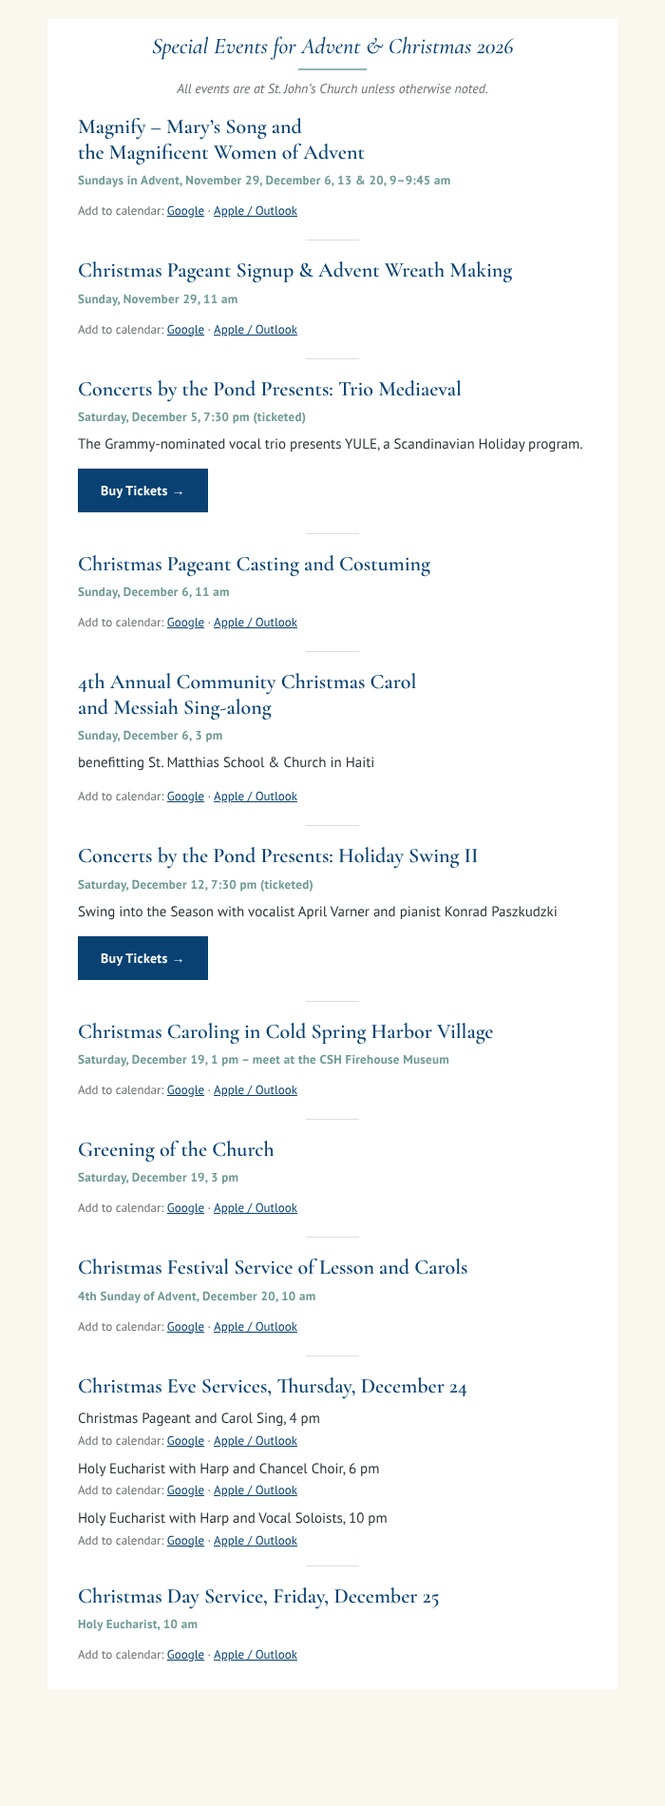
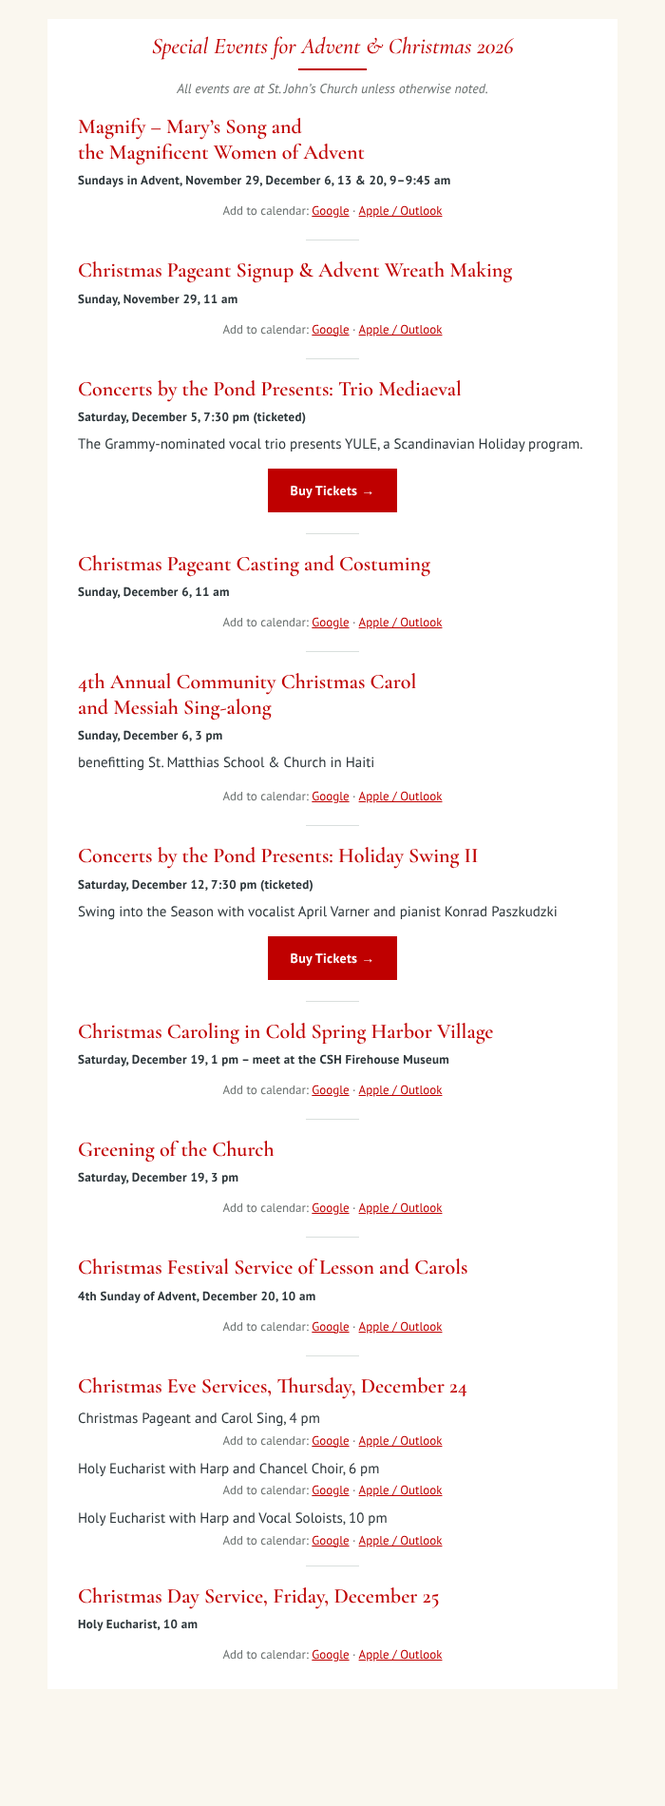
red update

diff --git a/advent/advent-block-for-mailchimp.html b/advent/advent-block-for-mailchimp.html
@@ -1,25 +1,25 @@
 <!-- Seasonal calendar block, events on/after 2026-11-24. Paste into the Curator's "Seasonal calendar" box. -->
 <table role="presentation" width="100%" cellpadding="0" cellspacing="0" border="0">
-<tr><td style="padding:16px 32px 0;text-align:center;"><div style="font-family:'Cormorant Garamond',Georgia,'Times New Roman',serif;font-style:italic;font-weight:500;font-size:24px;color:#084172;line-height:1.1;">Special Events for Advent &amp; Christmas 2026</div><table role="presentation" align="center" cellpadding="0" cellspacing="0" border="0" style="margin:10px auto 0;"><tr><td width="72" style="width:72px;height:2px;background:#8FB5B0;font-size:0;line-height:0;">&nbsp;</td></tr></table><div style="font-family:'PT Sans',Helvetica,Arial,sans-serif;font-style:italic;font-size:14px;color:#6B7170;margin-top:10px;">All events are at St. John’s Church unless otherwise noted.</div></td></tr>
-<tr><td style="padding:18px 32px 0;"><div style="font-family:'Cormorant Garamond',Georgia,'Times New Roman',serif;font-weight:600;font-size:22px;line-height:1.2;color:#084172;">Magnify – Mary’s Song&nbsp;and<br>the Magnificent Women of&nbsp;Advent</div><div style="font-family:'PT Sans',Helvetica,Arial,sans-serif;font-weight:700;font-size:13px;letter-spacing:0.3px;color:#6F9994;margin-top:8px;">Sundays in Advent, November 29, December 6, 13 &amp; 20, 9–9:45&nbsp;am</div><div style="margin:14px 0 4px;"><span style="font-family:'PT Sans',Helvetica,Arial,sans-serif;font-size:13px;color:#6B7170;">Add to calendar: </span><a href="https://calendar.google.com/calendar/render?action=TEMPLATE&amp;text=Magnify%20%E2%80%93%20Mary%E2%80%99s%20Song%20and%20the%20Magnificent%20Women%20of%20Advent&amp;dates=20261129T090000/20261129T094500&amp;ctz=America%2FNew_York&amp;location=St.%20John%E2%80%99s%20Church%2C%201670%20Route%2025A%2C%20Cold%20Spring%20Harbor%2C%20NY%2011724&amp;details=St.%20John%E2%80%99s%20Episcopal%20Church%2C%20Cold%20Spring%20Harbor&amp;recur=RRULE%3AFREQ%3DWEEKLY%3BCOUNT%3D4" style="color:#084172;text-decoration:underline;font-family:'PT Sans',Helvetica,Arial,sans-serif;font-size:13px;">Google</a><span style="font-family:'PT Sans',Helvetica,Arial,sans-serif;font-size:13px;color:#6B7170;"> &middot; </span><a href="https://www.stjcsh.org/calendar/magnify-2026.ics" style="color:#084172;text-decoration:underline;font-family:'PT Sans',Helvetica,Arial,sans-serif;font-size:13px;">Apple / Outlook</a></div></td></tr>
+<tr><td style="padding:16px 32px 0;text-align:center;"><div style="font-family:'Cormorant Garamond',Georgia,'Times New Roman',serif;font-style:italic;font-weight:500;font-size:24px;color:#BF0000;line-height:1.1;">Special Events for Advent &amp; Christmas 2026</div><table role="presentation" align="center" cellpadding="0" cellspacing="0" border="0" style="margin:10px auto 0;"><tr><td width="72" style="width:72px;height:2px;background:#BF0000;font-size:0;line-height:0;">&nbsp;</td></tr></table><div style="font-family:'PT Sans',Helvetica,Arial,sans-serif;font-style:italic;font-size:14px;color:#6B7170;margin-top:10px;">All events are at St. John’s Church unless otherwise noted.</div></td></tr>
+<tr><td style="padding:18px 32px 0;"><div style="font-family:'Cormorant Garamond',Georgia,'Times New Roman',serif;font-weight:600;font-size:22px;line-height:1.2;color:#BF0000;">Magnify – Mary’s Song&nbsp;and<br>the Magnificent Women of&nbsp;Advent</div><div style="font-family:'PT Sans',Helvetica,Arial,sans-serif;font-weight:700;font-size:13px;letter-spacing:0.3px;color:#2C3539;margin-top:8px;">Sundays in Advent, November 29, December 6, 13 &amp; 20, 9–9:45&nbsp;am</div><div style="margin:14px 0 4px;text-align:center;"><span style="font-family:'PT Sans',Helvetica,Arial,sans-serif;font-size:13px;color:#6B7170;">Add to calendar: </span><a href="https://calendar.google.com/calendar/render?action=TEMPLATE&amp;text=Magnify%20%E2%80%93%20Mary%E2%80%99s%20Song%20and%20the%20Magnificent%20Women%20of%20Advent&amp;dates=20261129T090000/20261129T094500&amp;ctz=America%2FNew_York&amp;location=St.%20John%E2%80%99s%20Church%2C%201670%20Route%2025A%2C%20Cold%20Spring%20Harbor%2C%20NY%2011724&amp;details=St.%20John%E2%80%99s%20Episcopal%20Church%2C%20Cold%20Spring%20Harbor&amp;recur=RRULE%3AFREQ%3DWEEKLY%3BCOUNT%3D4" style="color:#BF0000;text-decoration:underline;font-family:'PT Sans',Helvetica,Arial,sans-serif;font-size:13px;">Google</a><span style="font-family:'PT Sans',Helvetica,Arial,sans-serif;font-size:13px;color:#6B7170;"> &middot; </span><a href="https://www.stjcsh.org/calendar/magnify-2026.ics" style="color:#BF0000;text-decoration:underline;font-family:'PT Sans',Helvetica,Arial,sans-serif;font-size:13px;">Apple / Outlook</a></div></td></tr>
 <tr><td style="padding:18px 32px 0;text-align:center;"><table role="presentation" align="center" cellpadding="0" cellspacing="0" border="0" style="margin:0 auto;"><tr><td width="56" style="width:56px;height:1px;background:#D9DFDD;font-size:0;line-height:0;">&nbsp;</td></tr></table></td></tr>
-<tr><td style="padding:18px 32px 0;"><div style="font-family:'Cormorant Garamond',Georgia,'Times New Roman',serif;font-weight:600;font-size:22px;line-height:1.2;color:#084172;">Christmas Pageant Signup &amp; Advent Wreath&nbsp;Making</div><div style="font-family:'PT Sans',Helvetica,Arial,sans-serif;font-weight:700;font-size:13px;letter-spacing:0.3px;color:#6F9994;margin-top:8px;">Sunday, November 29, 11&nbsp;am</div><div style="margin:14px 0 4px;"><span style="font-family:'PT Sans',Helvetica,Arial,sans-serif;font-size:13px;color:#6B7170;">Add to calendar: </span><a href="https://calendar.google.com/calendar/render?action=TEMPLATE&amp;text=Christmas%20Pageant%20Signup%20%26%20Advent%20Wreath%20Making&amp;dates=20261129T110000/20261129T120000&amp;ctz=America%2FNew_York&amp;location=St.%20John%E2%80%99s%20Church%2C%201670%20Route%2025A%2C%20Cold%20Spring%20Harbor%2C%20NY%2011724&amp;details=St.%20John%E2%80%99s%20Episcopal%20Church%2C%20Cold%20Spring%20Harbor" style="color:#084172;text-decoration:underline;font-family:'PT Sans',Helvetica,Arial,sans-serif;font-size:13px;">Google</a><span style="font-family:'PT Sans',Helvetica,Arial,sans-serif;font-size:13px;color:#6B7170;"> &middot; </span><a href="https://www.stjcsh.org/calendar/pageant-signup-wreath-making.ics" style="color:#084172;text-decoration:underline;font-family:'PT Sans',Helvetica,Arial,sans-serif;font-size:13px;">Apple / Outlook</a></div></td></tr>
+<tr><td style="padding:18px 32px 0;"><div style="font-family:'Cormorant Garamond',Georgia,'Times New Roman',serif;font-weight:600;font-size:22px;line-height:1.2;color:#BF0000;">Christmas Pageant Signup &amp; Advent Wreath&nbsp;Making</div><div style="font-family:'PT Sans',Helvetica,Arial,sans-serif;font-weight:700;font-size:13px;letter-spacing:0.3px;color:#2C3539;margin-top:8px;">Sunday, November 29, 11&nbsp;am</div><div style="margin:14px 0 4px;text-align:center;"><span style="font-family:'PT Sans',Helvetica,Arial,sans-serif;font-size:13px;color:#6B7170;">Add to calendar: </span><a href="https://calendar.google.com/calendar/render?action=TEMPLATE&amp;text=Christmas%20Pageant%20Signup%20%26%20Advent%20Wreath%20Making&amp;dates=20261129T110000/20261129T120000&amp;ctz=America%2FNew_York&amp;location=St.%20John%E2%80%99s%20Church%2C%201670%20Route%2025A%2C%20Cold%20Spring%20Harbor%2C%20NY%2011724&amp;details=St.%20John%E2%80%99s%20Episcopal%20Church%2C%20Cold%20Spring%20Harbor" style="color:#BF0000;text-decoration:underline;font-family:'PT Sans',Helvetica,Arial,sans-serif;font-size:13px;">Google</a><span style="font-family:'PT Sans',Helvetica,Arial,sans-serif;font-size:13px;color:#6B7170;"> &middot; </span><a href="https://www.stjcsh.org/calendar/pageant-signup-wreath-making.ics" style="color:#BF0000;text-decoration:underline;font-family:'PT Sans',Helvetica,Arial,sans-serif;font-size:13px;">Apple / Outlook</a></div></td></tr>
 <tr><td style="padding:18px 32px 0;text-align:center;"><table role="presentation" align="center" cellpadding="0" cellspacing="0" border="0" style="margin:0 auto;"><tr><td width="56" style="width:56px;height:1px;background:#D9DFDD;font-size:0;line-height:0;">&nbsp;</td></tr></table></td></tr>
-<tr><td style="padding:18px 32px 0;"><div style="font-family:'Cormorant Garamond',Georgia,'Times New Roman',serif;font-weight:600;font-size:22px;line-height:1.2;color:#084172;">Concerts by the Pond Presents: Trio&nbsp;Mediaeval</div><div style="font-family:'PT Sans',Helvetica,Arial,sans-serif;font-weight:700;font-size:13px;letter-spacing:0.3px;color:#6F9994;margin-top:8px;">Saturday, December 5, 7:30 pm&nbsp;(ticketed)</div><div style="font-family:'PT Sans',Helvetica,Arial,sans-serif;font-size:15px;line-height:1.6;color:#2C3539;margin-top:8px;">The <span style="white-space:nowrap;">Grammy-nominated</span> vocal trio presents YULE, a Scandinavian Holiday&nbsp;program.</div><div style="margin:14px 0 4px;"><a href="https://www.tix.com/ticket-sales/CBTP/7340/event/1468828" style="display:inline-block;background:#084172;color:#FFFFFF;font-family:'PT Sans',Helvetica,Arial,sans-serif;font-weight:700;font-size:14px;letter-spacing:0.3px;text-decoration:none;padding:12px 22px;border:2px solid #084172;">Buy Tickets &rarr;</a></div></td></tr>
+<tr><td style="padding:18px 32px 0;"><div style="font-family:'Cormorant Garamond',Georgia,'Times New Roman',serif;font-weight:600;font-size:22px;line-height:1.2;color:#BF0000;">Concerts by the Pond Presents: Trio&nbsp;Mediaeval</div><div style="font-family:'PT Sans',Helvetica,Arial,sans-serif;font-weight:700;font-size:13px;letter-spacing:0.3px;color:#2C3539;margin-top:8px;">Saturday, December 5, 7:30 pm&nbsp;(ticketed)</div><div style="font-family:'PT Sans',Helvetica,Arial,sans-serif;font-size:15px;line-height:1.6;color:#2C3539;margin-top:8px;">The <span style="white-space:nowrap;">Grammy-nominated</span> vocal trio presents YULE, a Scandinavian Holiday&nbsp;program.</div><div style="margin:14px 0 4px;text-align:center;"><a href="https://www.tix.com/ticket-sales/CBTP/7340/event/1468828" style="display:inline-block;background:#BF0000;color:#FFFFFF;font-family:'PT Sans',Helvetica,Arial,sans-serif;font-weight:700;font-size:14px;letter-spacing:0.3px;text-decoration:none;padding:12px 22px;border:2px solid #BF0000;">Buy Tickets &rarr;</a></div></td></tr>
 <tr><td style="padding:18px 32px 0;text-align:center;"><table role="presentation" align="center" cellpadding="0" cellspacing="0" border="0" style="margin:0 auto;"><tr><td width="56" style="width:56px;height:1px;background:#D9DFDD;font-size:0;line-height:0;">&nbsp;</td></tr></table></td></tr>
-<tr><td style="padding:18px 32px 0;"><div style="font-family:'Cormorant Garamond',Georgia,'Times New Roman',serif;font-weight:600;font-size:22px;line-height:1.2;color:#084172;">Christmas Pageant Casting and&nbsp;Costuming</div><div style="font-family:'PT Sans',Helvetica,Arial,sans-serif;font-weight:700;font-size:13px;letter-spacing:0.3px;color:#6F9994;margin-top:8px;">Sunday, December 6, 11&nbsp;am</div><div style="margin:14px 0 4px;"><span style="font-family:'PT Sans',Helvetica,Arial,sans-serif;font-size:13px;color:#6B7170;">Add to calendar: </span><a href="https://calendar.google.com/calendar/render?action=TEMPLATE&amp;text=Christmas%20Pageant%20Casting%20and%20Costuming&amp;dates=20261206T110000/20261206T120000&amp;ctz=America%2FNew_York&amp;location=St.%20John%E2%80%99s%20Church%2C%201670%20Route%2025A%2C%20Cold%20Spring%20Harbor%2C%20NY%2011724&amp;details=St.%20John%E2%80%99s%20Episcopal%20Church%2C%20Cold%20Spring%20Harbor" style="color:#084172;text-decoration:underline;font-family:'PT Sans',Helvetica,Arial,sans-serif;font-size:13px;">Google</a><span style="font-family:'PT Sans',Helvetica,Arial,sans-serif;font-size:13px;color:#6B7170;"> &middot; </span><a href="https://www.stjcsh.org/calendar/pageant-casting-costuming.ics" style="color:#084172;text-decoration:underline;font-family:'PT Sans',Helvetica,Arial,sans-serif;font-size:13px;">Apple / Outlook</a></div></td></tr>
+<tr><td style="padding:18px 32px 0;"><div style="font-family:'Cormorant Garamond',Georgia,'Times New Roman',serif;font-weight:600;font-size:22px;line-height:1.2;color:#BF0000;">Christmas Pageant Casting and&nbsp;Costuming</div><div style="font-family:'PT Sans',Helvetica,Arial,sans-serif;font-weight:700;font-size:13px;letter-spacing:0.3px;color:#2C3539;margin-top:8px;">Sunday, December 6, 11&nbsp;am</div><div style="margin:14px 0 4px;text-align:center;"><span style="font-family:'PT Sans',Helvetica,Arial,sans-serif;font-size:13px;color:#6B7170;">Add to calendar: </span><a href="https://calendar.google.com/calendar/render?action=TEMPLATE&amp;text=Christmas%20Pageant%20Casting%20and%20Costuming&amp;dates=20261206T110000/20261206T120000&amp;ctz=America%2FNew_York&amp;location=St.%20John%E2%80%99s%20Church%2C%201670%20Route%2025A%2C%20Cold%20Spring%20Harbor%2C%20NY%2011724&amp;details=St.%20John%E2%80%99s%20Episcopal%20Church%2C%20Cold%20Spring%20Harbor" style="color:#BF0000;text-decoration:underline;font-family:'PT Sans',Helvetica,Arial,sans-serif;font-size:13px;">Google</a><span style="font-family:'PT Sans',Helvetica,Arial,sans-serif;font-size:13px;color:#6B7170;"> &middot; </span><a href="https://www.stjcsh.org/calendar/pageant-casting-costuming.ics" style="color:#BF0000;text-decoration:underline;font-family:'PT Sans',Helvetica,Arial,sans-serif;font-size:13px;">Apple / Outlook</a></div></td></tr>
 <tr><td style="padding:18px 32px 0;text-align:center;"><table role="presentation" align="center" cellpadding="0" cellspacing="0" border="0" style="margin:0 auto;"><tr><td width="56" style="width:56px;height:1px;background:#D9DFDD;font-size:0;line-height:0;">&nbsp;</td></tr></table></td></tr>
-<tr><td style="padding:18px 32px 0;"><div style="font-family:'Cormorant Garamond',Georgia,'Times New Roman',serif;font-weight:600;font-size:22px;line-height:1.2;color:#084172;">4th Annual Community Christmas&nbsp;Carol<br>and Messiah <span&nbsp;style="white-space:nowrap;">Sing-along</span></div><div style="font-family:'PT Sans',Helvetica,Arial,sans-serif;font-weight:700;font-size:13px;letter-spacing:0.3px;color:#6F9994;margin-top:8px;">Sunday, December 6, 3&nbsp;pm</div><div style="font-family:'PT Sans',Helvetica,Arial,sans-serif;font-size:15px;line-height:1.6;color:#2C3539;margin-top:8px;">benefitting St. Matthias School &amp; Church in&nbsp;Haiti</div><div style="margin:14px 0 4px;"><span style="font-family:'PT Sans',Helvetica,Arial,sans-serif;font-size:13px;color:#6B7170;">Add to calendar: </span><a href="https://calendar.google.com/calendar/render?action=TEMPLATE&amp;text=4th%20Annual%20Community%20Christmas%20Carol%20and%20Messiah%20Sing-along&amp;dates=20261206T150000/20261206T160000&amp;ctz=America%2FNew_York&amp;location=St.%20John%E2%80%99s%20Church%2C%201670%20Route%2025A%2C%20Cold%20Spring%20Harbor%2C%20NY%2011724&amp;details=St.%20John%E2%80%99s%20Episcopal%20Church%2C%20Cold%20Spring%20Harbor" style="color:#084172;text-decoration:underline;font-family:'PT Sans',Helvetica,Arial,sans-serif;font-size:13px;">Google</a><span style="font-family:'PT Sans',Helvetica,Arial,sans-serif;font-size:13px;color:#6B7170;"> &middot; </span><a href="https://www.stjcsh.org/calendar/carol-messiah-singalong.ics" style="color:#084172;text-decoration:underline;font-family:'PT Sans',Helvetica,Arial,sans-serif;font-size:13px;">Apple / Outlook</a></div></td></tr>
+<tr><td style="padding:18px 32px 0;"><div style="font-family:'Cormorant Garamond',Georgia,'Times New Roman',serif;font-weight:600;font-size:22px;line-height:1.2;color:#BF0000;">4th Annual Community Christmas&nbsp;Carol<br>and Messiah <span&nbsp;style="white-space:nowrap;">Sing-along</span></div><div style="font-family:'PT Sans',Helvetica,Arial,sans-serif;font-weight:700;font-size:13px;letter-spacing:0.3px;color:#2C3539;margin-top:8px;">Sunday, December 6, 3&nbsp;pm</div><div style="font-family:'PT Sans',Helvetica,Arial,sans-serif;font-size:15px;line-height:1.6;color:#2C3539;margin-top:8px;">benefitting St. Matthias School &amp; Church in&nbsp;Haiti</div><div style="margin:14px 0 4px;text-align:center;"><span style="font-family:'PT Sans',Helvetica,Arial,sans-serif;font-size:13px;color:#6B7170;">Add to calendar: </span><a href="https://calendar.google.com/calendar/render?action=TEMPLATE&amp;text=4th%20Annual%20Community%20Christmas%20Carol%20and%20Messiah%20Sing-along&amp;dates=20261206T150000/20261206T160000&amp;ctz=America%2FNew_York&amp;location=St.%20John%E2%80%99s%20Church%2C%201670%20Route%2025A%2C%20Cold%20Spring%20Harbor%2C%20NY%2011724&amp;details=St.%20John%E2%80%99s%20Episcopal%20Church%2C%20Cold%20Spring%20Harbor" style="color:#BF0000;text-decoration:underline;font-family:'PT Sans',Helvetica,Arial,sans-serif;font-size:13px;">Google</a><span style="font-family:'PT Sans',Helvetica,Arial,sans-serif;font-size:13px;color:#6B7170;"> &middot; </span><a href="https://www.stjcsh.org/calendar/carol-messiah-singalong.ics" style="color:#BF0000;text-decoration:underline;font-family:'PT Sans',Helvetica,Arial,sans-serif;font-size:13px;">Apple / Outlook</a></div></td></tr>
 <tr><td style="padding:18px 32px 0;text-align:center;"><table role="presentation" align="center" cellpadding="0" cellspacing="0" border="0" style="margin:0 auto;"><tr><td width="56" style="width:56px;height:1px;background:#D9DFDD;font-size:0;line-height:0;">&nbsp;</td></tr></table></td></tr>
-<tr><td style="padding:18px 32px 0;"><div style="font-family:'Cormorant Garamond',Georgia,'Times New Roman',serif;font-weight:600;font-size:22px;line-height:1.2;color:#084172;">Concerts by the Pond Presents: Holiday Swing&nbsp;II</div><div style="font-family:'PT Sans',Helvetica,Arial,sans-serif;font-weight:700;font-size:13px;letter-spacing:0.3px;color:#6F9994;margin-top:8px;">Saturday, December 12, 7:30 pm&nbsp;(ticketed)</div><div style="font-family:'PT Sans',Helvetica,Arial,sans-serif;font-size:15px;line-height:1.6;color:#2C3539;margin-top:8px;">Swing into the Season with vocalist April Varner and pianist Konrad&nbsp;Paszkudzki</div><div style="margin:14px 0 4px;"><a href="https://www.tix.com/ticket-sales/CBTP/7340/event/1468829" style="display:inline-block;background:#084172;color:#FFFFFF;font-family:'PT Sans',Helvetica,Arial,sans-serif;font-weight:700;font-size:14px;letter-spacing:0.3px;text-decoration:none;padding:12px 22px;border:2px solid #084172;">Buy Tickets &rarr;</a></div></td></tr>
+<tr><td style="padding:18px 32px 0;"><div style="font-family:'Cormorant Garamond',Georgia,'Times New Roman',serif;font-weight:600;font-size:22px;line-height:1.2;color:#BF0000;">Concerts by the Pond Presents: Holiday Swing&nbsp;II</div><div style="font-family:'PT Sans',Helvetica,Arial,sans-serif;font-weight:700;font-size:13px;letter-spacing:0.3px;color:#2C3539;margin-top:8px;">Saturday, December 12, 7:30 pm&nbsp;(ticketed)</div><div style="font-family:'PT Sans',Helvetica,Arial,sans-serif;font-size:15px;line-height:1.6;color:#2C3539;margin-top:8px;">Swing into the Season with vocalist April Varner and pianist Konrad&nbsp;Paszkudzki</div><div style="margin:14px 0 4px;text-align:center;"><a href="https://www.tix.com/ticket-sales/CBTP/7340/event/1468829" style="display:inline-block;background:#BF0000;color:#FFFFFF;font-family:'PT Sans',Helvetica,Arial,sans-serif;font-weight:700;font-size:14px;letter-spacing:0.3px;text-decoration:none;padding:12px 22px;border:2px solid #BF0000;">Buy Tickets &rarr;</a></div></td></tr>
 <tr><td style="padding:18px 32px 0;text-align:center;"><table role="presentation" align="center" cellpadding="0" cellspacing="0" border="0" style="margin:0 auto;"><tr><td width="56" style="width:56px;height:1px;background:#D9DFDD;font-size:0;line-height:0;">&nbsp;</td></tr></table></td></tr>
-<tr><td style="padding:18px 32px 0;"><div style="font-family:'Cormorant Garamond',Georgia,'Times New Roman',serif;font-weight:600;font-size:22px;line-height:1.2;color:#084172;">Christmas Caroling in Cold Spring Harbor&nbsp;Village</div><div style="font-family:'PT Sans',Helvetica,Arial,sans-serif;font-weight:700;font-size:13px;letter-spacing:0.3px;color:#6F9994;margin-top:8px;">Saturday, December 19, 1 pm – meet at the CSH Firehouse&nbsp;Museum</div><div style="margin:14px 0 4px;"><span style="font-family:'PT Sans',Helvetica,Arial,sans-serif;font-size:13px;color:#6B7170;">Add to calendar: </span><a href="https://calendar.google.com/calendar/render?action=TEMPLATE&amp;text=Christmas%20Caroling%20in%20Cold%20Spring%20Harbor%20Village&amp;dates=20261219T130000/20261219T140000&amp;ctz=America%2FNew_York&amp;location=Cold%20Spring%20Harbor%20Firehouse%20Museum%2C%20Cold%20Spring%20Harbor%2C%20NY&amp;details=St.%20John%E2%80%99s%20Episcopal%20Church%2C%20Cold%20Spring%20Harbor" style="color:#084172;text-decoration:underline;font-family:'PT Sans',Helvetica,Arial,sans-serif;font-size:13px;">Google</a><span style="font-family:'PT Sans',Helvetica,Arial,sans-serif;font-size:13px;color:#6B7170;"> &middot; </span><a href="https://www.stjcsh.org/calendar/village-caroling.ics" style="color:#084172;text-decoration:underline;font-family:'PT Sans',Helvetica,Arial,sans-serif;font-size:13px;">Apple / Outlook</a></div></td></tr>
+<tr><td style="padding:18px 32px 0;"><div style="font-family:'Cormorant Garamond',Georgia,'Times New Roman',serif;font-weight:600;font-size:22px;line-height:1.2;color:#BF0000;">Christmas Caroling in Cold Spring Harbor&nbsp;Village</div><div style="font-family:'PT Sans',Helvetica,Arial,sans-serif;font-weight:700;font-size:13px;letter-spacing:0.3px;color:#2C3539;margin-top:8px;">Saturday, December 19, 1 pm – meet at the CSH Firehouse&nbsp;Museum</div><div style="margin:14px 0 4px;text-align:center;"><span style="font-family:'PT Sans',Helvetica,Arial,sans-serif;font-size:13px;color:#6B7170;">Add to calendar: </span><a href="https://calendar.google.com/calendar/render?action=TEMPLATE&amp;text=Christmas%20Caroling%20in%20Cold%20Spring%20Harbor%20Village&amp;dates=20261219T130000/20261219T140000&amp;ctz=America%2FNew_York&amp;location=Cold%20Spring%20Harbor%20Firehouse%20Museum%2C%20Cold%20Spring%20Harbor%2C%20NY&amp;details=St.%20John%E2%80%99s%20Episcopal%20Church%2C%20Cold%20Spring%20Harbor" style="color:#BF0000;text-decoration:underline;font-family:'PT Sans',Helvetica,Arial,sans-serif;font-size:13px;">Google</a><span style="font-family:'PT Sans',Helvetica,Arial,sans-serif;font-size:13px;color:#6B7170;"> &middot; </span><a href="https://www.stjcsh.org/calendar/village-caroling.ics" style="color:#BF0000;text-decoration:underline;font-family:'PT Sans',Helvetica,Arial,sans-serif;font-size:13px;">Apple / Outlook</a></div></td></tr>
 <tr><td style="padding:18px 32px 0;text-align:center;"><table role="presentation" align="center" cellpadding="0" cellspacing="0" border="0" style="margin:0 auto;"><tr><td width="56" style="width:56px;height:1px;background:#D9DFDD;font-size:0;line-height:0;">&nbsp;</td></tr></table></td></tr>
-<tr><td style="padding:18px 32px 0;"><div style="font-family:'Cormorant Garamond',Georgia,'Times New Roman',serif;font-weight:600;font-size:22px;line-height:1.2;color:#084172;">Greening of the&nbsp;Church</div><div style="font-family:'PT Sans',Helvetica,Arial,sans-serif;font-weight:700;font-size:13px;letter-spacing:0.3px;color:#6F9994;margin-top:8px;">Saturday, December 19, 3&nbsp;pm</div><div style="margin:14px 0 4px;"><span style="font-family:'PT Sans',Helvetica,Arial,sans-serif;font-size:13px;color:#6B7170;">Add to calendar: </span><a href="https://calendar.google.com/calendar/render?action=TEMPLATE&amp;text=Greening%20of%20the%20Church&amp;dates=20261219T150000/20261219T160000&amp;ctz=America%2FNew_York&amp;location=St.%20John%E2%80%99s%20Church%2C%201670%20Route%2025A%2C%20Cold%20Spring%20Harbor%2C%20NY%2011724&amp;details=St.%20John%E2%80%99s%20Episcopal%20Church%2C%20Cold%20Spring%20Harbor" style="color:#084172;text-decoration:underline;font-family:'PT Sans',Helvetica,Arial,sans-serif;font-size:13px;">Google</a><span style="font-family:'PT Sans',Helvetica,Arial,sans-serif;font-size:13px;color:#6B7170;"> &middot; </span><a href="https://www.stjcsh.org/calendar/greening-of-the-church.ics" style="color:#084172;text-decoration:underline;font-family:'PT Sans',Helvetica,Arial,sans-serif;font-size:13px;">Apple / Outlook</a></div></td></tr>
+<tr><td style="padding:18px 32px 0;"><div style="font-family:'Cormorant Garamond',Georgia,'Times New Roman',serif;font-weight:600;font-size:22px;line-height:1.2;color:#BF0000;">Greening of the&nbsp;Church</div><div style="font-family:'PT Sans',Helvetica,Arial,sans-serif;font-weight:700;font-size:13px;letter-spacing:0.3px;color:#2C3539;margin-top:8px;">Saturday, December 19, 3&nbsp;pm</div><div style="margin:14px 0 4px;text-align:center;"><span style="font-family:'PT Sans',Helvetica,Arial,sans-serif;font-size:13px;color:#6B7170;">Add to calendar: </span><a href="https://calendar.google.com/calendar/render?action=TEMPLATE&amp;text=Greening%20of%20the%20Church&amp;dates=20261219T150000/20261219T160000&amp;ctz=America%2FNew_York&amp;location=St.%20John%E2%80%99s%20Church%2C%201670%20Route%2025A%2C%20Cold%20Spring%20Harbor%2C%20NY%2011724&amp;details=St.%20John%E2%80%99s%20Episcopal%20Church%2C%20Cold%20Spring%20Harbor" style="color:#BF0000;text-decoration:underline;font-family:'PT Sans',Helvetica,Arial,sans-serif;font-size:13px;">Google</a><span style="font-family:'PT Sans',Helvetica,Arial,sans-serif;font-size:13px;color:#6B7170;"> &middot; </span><a href="https://www.stjcsh.org/calendar/greening-of-the-church.ics" style="color:#BF0000;text-decoration:underline;font-family:'PT Sans',Helvetica,Arial,sans-serif;font-size:13px;">Apple / Outlook</a></div></td></tr>
 <tr><td style="padding:18px 32px 0;text-align:center;"><table role="presentation" align="center" cellpadding="0" cellspacing="0" border="0" style="margin:0 auto;"><tr><td width="56" style="width:56px;height:1px;background:#D9DFDD;font-size:0;line-height:0;">&nbsp;</td></tr></table></td></tr>
-<tr><td style="padding:18px 32px 0;"><div style="font-family:'Cormorant Garamond',Georgia,'Times New Roman',serif;font-weight:600;font-size:22px;line-height:1.2;color:#084172;">Christmas Festival Service of Lesson and&nbsp;Carols</div><div style="font-family:'PT Sans',Helvetica,Arial,sans-serif;font-weight:700;font-size:13px;letter-spacing:0.3px;color:#6F9994;margin-top:8px;">4th Sunday of Advent, December 20, 10&nbsp;am</div><div style="margin:14px 0 4px;"><span style="font-family:'PT Sans',Helvetica,Arial,sans-serif;font-size:13px;color:#6B7170;">Add to calendar: </span><a href="https://calendar.google.com/calendar/render?action=TEMPLATE&amp;text=Christmas%20Festival%20Service%20of%20Lesson%20and%20Carols&amp;dates=20261220T100000/20261220T110000&amp;ctz=America%2FNew_York&amp;location=St.%20John%E2%80%99s%20Church%2C%201670%20Route%2025A%2C%20Cold%20Spring%20Harbor%2C%20NY%2011724&amp;details=St.%20John%E2%80%99s%20Episcopal%20Church%2C%20Cold%20Spring%20Harbor" style="color:#084172;text-decoration:underline;font-family:'PT Sans',Helvetica,Arial,sans-serif;font-size:13px;">Google</a><span style="font-family:'PT Sans',Helvetica,Arial,sans-serif;font-size:13px;color:#6B7170;"> &middot; </span><a href="https://www.stjcsh.org/calendar/lessons-and-carols.ics" style="color:#084172;text-decoration:underline;font-family:'PT Sans',Helvetica,Arial,sans-serif;font-size:13px;">Apple / Outlook</a></div></td></tr>
+<tr><td style="padding:18px 32px 0;"><div style="font-family:'Cormorant Garamond',Georgia,'Times New Roman',serif;font-weight:600;font-size:22px;line-height:1.2;color:#BF0000;">Christmas Festival Service of Lesson and&nbsp;Carols</div><div style="font-family:'PT Sans',Helvetica,Arial,sans-serif;font-weight:700;font-size:13px;letter-spacing:0.3px;color:#2C3539;margin-top:8px;">4th Sunday of Advent, December 20, 10&nbsp;am</div><div style="margin:14px 0 4px;text-align:center;"><span style="font-family:'PT Sans',Helvetica,Arial,sans-serif;font-size:13px;color:#6B7170;">Add to calendar: </span><a href="https://calendar.google.com/calendar/render?action=TEMPLATE&amp;text=Christmas%20Festival%20Service%20of%20Lesson%20and%20Carols&amp;dates=20261220T100000/20261220T110000&amp;ctz=America%2FNew_York&amp;location=St.%20John%E2%80%99s%20Church%2C%201670%20Route%2025A%2C%20Cold%20Spring%20Harbor%2C%20NY%2011724&amp;details=St.%20John%E2%80%99s%20Episcopal%20Church%2C%20Cold%20Spring%20Harbor" style="color:#BF0000;text-decoration:underline;font-family:'PT Sans',Helvetica,Arial,sans-serif;font-size:13px;">Google</a><span style="font-family:'PT Sans',Helvetica,Arial,sans-serif;font-size:13px;color:#6B7170;"> &middot; </span><a href="https://www.stjcsh.org/calendar/lessons-and-carols.ics" style="color:#BF0000;text-decoration:underline;font-family:'PT Sans',Helvetica,Arial,sans-serif;font-size:13px;">Apple / Outlook</a></div></td></tr>
 <tr><td style="padding:18px 32px 0;text-align:center;"><table role="presentation" align="center" cellpadding="0" cellspacing="0" border="0" style="margin:0 auto;"><tr><td width="56" style="width:56px;height:1px;background:#D9DFDD;font-size:0;line-height:0;">&nbsp;</td></tr></table></td></tr>
-<tr><td style="padding:18px 32px 0;"><div style="font-family:'Cormorant Garamond',Georgia,'Times New Roman',serif;font-weight:600;font-size:22px;line-height:1.2;color:#084172;">Christmas Eve Services, Thursday, December&nbsp;24</div><div style="margin-top:10px;"><div style="font-family:'PT Sans',Helvetica,Arial,sans-serif;font-size:15px;line-height:1.5;color:#2C3539;">Christmas Pageant and Carol Sing, 4&nbsp;pm</div><div style="margin-top:2px;"><span style="font-family:'PT Sans',Helvetica,Arial,sans-serif;font-size:13px;color:#6B7170;">Add to calendar: </span><a href="https://calendar.google.com/calendar/render?action=TEMPLATE&amp;text=Christmas%20Pageant%20and%20Carol%20Sing&amp;dates=20261224T160000/20261224T170000&amp;ctz=America%2FNew_York&amp;location=St.%20John%E2%80%99s%20Church%2C%201670%20Route%2025A%2C%20Cold%20Spring%20Harbor%2C%20NY%2011724&amp;details=St.%20John%E2%80%99s%20Episcopal%20Church%2C%20Cold%20Spring%20Harbor" style="color:#084172;text-decoration:underline;font-family:'PT Sans',Helvetica,Arial,sans-serif;font-size:13px;">Google</a><span style="font-family:'PT Sans',Helvetica,Arial,sans-serif;font-size:13px;color:#6B7170;"> &middot; </span><a href="https://www.stjcsh.org/calendar/christmas-eve-4pm.ics" style="color:#084172;text-decoration:underline;font-family:'PT Sans',Helvetica,Arial,sans-serif;font-size:13px;">Apple / Outlook</a></div></div><div style="margin-top:10px;"><div style="font-family:'PT Sans',Helvetica,Arial,sans-serif;font-size:15px;line-height:1.5;color:#2C3539;">Holy Eucharist with Harp and Chancel Choir, 6&nbsp;pm</div><div style="margin-top:2px;"><span style="font-family:'PT Sans',Helvetica,Arial,sans-serif;font-size:13px;color:#6B7170;">Add to calendar: </span><a href="https://calendar.google.com/calendar/render?action=TEMPLATE&amp;text=Holy%20Eucharist%20with%20Harp%20and%20Chancel%20Choir&amp;dates=20261224T180000/20261224T190000&amp;ctz=America%2FNew_York&amp;location=St.%20John%E2%80%99s%20Church%2C%201670%20Route%2025A%2C%20Cold%20Spring%20Harbor%2C%20NY%2011724&amp;details=St.%20John%E2%80%99s%20Episcopal%20Church%2C%20Cold%20Spring%20Harbor" style="color:#084172;text-decoration:underline;font-family:'PT Sans',Helvetica,Arial,sans-serif;font-size:13px;">Google</a><span style="font-family:'PT Sans',Helvetica,Arial,sans-serif;font-size:13px;color:#6B7170;"> &middot; </span><a href="https://www.stjcsh.org/calendar/christmas-eve-6pm.ics" style="color:#084172;text-decoration:underline;font-family:'PT Sans',Helvetica,Arial,sans-serif;font-size:13px;">Apple / Outlook</a></div></div><div style="margin-top:10px;"><div style="font-family:'PT Sans',Helvetica,Arial,sans-serif;font-size:15px;line-height:1.5;color:#2C3539;">Holy Eucharist with Harp and Vocal Soloists, 10&nbsp;pm</div><div style="margin-top:2px;"><span style="font-family:'PT Sans',Helvetica,Arial,sans-serif;font-size:13px;color:#6B7170;">Add to calendar: </span><a href="https://calendar.google.com/calendar/render?action=TEMPLATE&amp;text=Holy%20Eucharist%20with%20Harp%20and%20Vocal%20Soloists&amp;dates=20261224T220000/20261224T230000&amp;ctz=America%2FNew_York&amp;location=St.%20John%E2%80%99s%20Church%2C%201670%20Route%2025A%2C%20Cold%20Spring%20Harbor%2C%20NY%2011724&amp;details=St.%20John%E2%80%99s%20Episcopal%20Church%2C%20Cold%20Spring%20Harbor" style="color:#084172;text-decoration:underline;font-family:'PT Sans',Helvetica,Arial,sans-serif;font-size:13px;">Google</a><span style="font-family:'PT Sans',Helvetica,Arial,sans-serif;font-size:13px;color:#6B7170;"> &middot; </span><a href="https://www.stjcsh.org/calendar/christmas-eve-10pm.ics" style="color:#084172;text-decoration:underline;font-family:'PT Sans',Helvetica,Arial,sans-serif;font-size:13px;">Apple / Outlook</a></div></div></td></tr>
+<tr><td style="padding:18px 32px 0;"><div style="font-family:'Cormorant Garamond',Georgia,'Times New Roman',serif;font-weight:600;font-size:22px;line-height:1.2;color:#BF0000;">Christmas Eve Services, Thursday, December&nbsp;24</div><div style="margin-top:10px;"><div style="font-family:'PT Sans',Helvetica,Arial,sans-serif;font-size:15px;line-height:1.5;color:#2C3539;">Christmas Pageant and Carol Sing, 4&nbsp;pm</div><div style="margin-top:2px;text-align:center;"><span style="font-family:'PT Sans',Helvetica,Arial,sans-serif;font-size:13px;color:#6B7170;">Add to calendar: </span><a href="https://calendar.google.com/calendar/render?action=TEMPLATE&amp;text=Christmas%20Pageant%20and%20Carol%20Sing&amp;dates=20261224T160000/20261224T170000&amp;ctz=America%2FNew_York&amp;location=St.%20John%E2%80%99s%20Church%2C%201670%20Route%2025A%2C%20Cold%20Spring%20Harbor%2C%20NY%2011724&amp;details=St.%20John%E2%80%99s%20Episcopal%20Church%2C%20Cold%20Spring%20Harbor" style="color:#BF0000;text-decoration:underline;font-family:'PT Sans',Helvetica,Arial,sans-serif;font-size:13px;">Google</a><span style="font-family:'PT Sans',Helvetica,Arial,sans-serif;font-size:13px;color:#6B7170;"> &middot; </span><a href="https://www.stjcsh.org/calendar/christmas-eve-4pm.ics" style="color:#BF0000;text-decoration:underline;font-family:'PT Sans',Helvetica,Arial,sans-serif;font-size:13px;">Apple / Outlook</a></div></div><div style="margin-top:10px;"><div style="font-family:'PT Sans',Helvetica,Arial,sans-serif;font-size:15px;line-height:1.5;color:#2C3539;">Holy Eucharist with Harp and Chancel Choir, 6&nbsp;pm</div><div style="margin-top:2px;text-align:center;"><span style="font-family:'PT Sans',Helvetica,Arial,sans-serif;font-size:13px;color:#6B7170;">Add to calendar: </span><a href="https://calendar.google.com/calendar/render?action=TEMPLATE&amp;text=Holy%20Eucharist%20with%20Harp%20and%20Chancel%20Choir&amp;dates=20261224T180000/20261224T190000&amp;ctz=America%2FNew_York&amp;location=St.%20John%E2%80%99s%20Church%2C%201670%20Route%2025A%2C%20Cold%20Spring%20Harbor%2C%20NY%2011724&amp;details=St.%20John%E2%80%99s%20Episcopal%20Church%2C%20Cold%20Spring%20Harbor" style="color:#BF0000;text-decoration:underline;font-family:'PT Sans',Helvetica,Arial,sans-serif;font-size:13px;">Google</a><span style="font-family:'PT Sans',Helvetica,Arial,sans-serif;font-size:13px;color:#6B7170;"> &middot; </span><a href="https://www.stjcsh.org/calendar/christmas-eve-6pm.ics" style="color:#BF0000;text-decoration:underline;font-family:'PT Sans',Helvetica,Arial,sans-serif;font-size:13px;">Apple / Outlook</a></div></div><div style="margin-top:10px;"><div style="font-family:'PT Sans',Helvetica,Arial,sans-serif;font-size:15px;line-height:1.5;color:#2C3539;">Holy Eucharist with Harp and Vocal Soloists, 10&nbsp;pm</div><div style="margin-top:2px;text-align:center;"><span style="font-family:'PT Sans',Helvetica,Arial,sans-serif;font-size:13px;color:#6B7170;">Add to calendar: </span><a href="https://calendar.google.com/calendar/render?action=TEMPLATE&amp;text=Holy%20Eucharist%20with%20Harp%20and%20Vocal%20Soloists&amp;dates=20261224T220000/20261224T230000&amp;ctz=America%2FNew_York&amp;location=St.%20John%E2%80%99s%20Church%2C%201670%20Route%2025A%2C%20Cold%20Spring%20Harbor%2C%20NY%2011724&amp;details=St.%20John%E2%80%99s%20Episcopal%20Church%2C%20Cold%20Spring%20Harbor" style="color:#BF0000;text-decoration:underline;font-family:'PT Sans',Helvetica,Arial,sans-serif;font-size:13px;">Google</a><span style="font-family:'PT Sans',Helvetica,Arial,sans-serif;font-size:13px;color:#6B7170;"> &middot; </span><a href="https://www.stjcsh.org/calendar/christmas-eve-10pm.ics" style="color:#BF0000;text-decoration:underline;font-family:'PT Sans',Helvetica,Arial,sans-serif;font-size:13px;">Apple / Outlook</a></div></div></td></tr>
 <tr><td style="padding:18px 32px 0;text-align:center;"><table role="presentation" align="center" cellpadding="0" cellspacing="0" border="0" style="margin:0 auto;"><tr><td width="56" style="width:56px;height:1px;background:#D9DFDD;font-size:0;line-height:0;">&nbsp;</td></tr></table></td></tr>
-<tr><td style="padding:18px 32px 0;"><div style="font-family:'Cormorant Garamond',Georgia,'Times New Roman',serif;font-weight:600;font-size:22px;line-height:1.2;color:#084172;">Christmas Day Service, Friday, December&nbsp;25</div><div style="font-family:'PT Sans',Helvetica,Arial,sans-serif;font-weight:700;font-size:13px;letter-spacing:0.3px;color:#6F9994;margin-top:8px;">Holy Eucharist, 10&nbsp;am</div><div style="margin:14px 0 4px;"><span style="font-family:'PT Sans',Helvetica,Arial,sans-serif;font-size:13px;color:#6B7170;">Add to calendar: </span><a href="https://calendar.google.com/calendar/render?action=TEMPLATE&amp;text=Christmas%20Day%20Holy%20Eucharist&amp;dates=20261225T100000/20261225T110000&amp;ctz=America%2FNew_York&amp;location=St.%20John%E2%80%99s%20Church%2C%201670%20Route%2025A%2C%20Cold%20Spring%20Harbor%2C%20NY%2011724&amp;details=St.%20John%E2%80%99s%20Episcopal%20Church%2C%20Cold%20Spring%20Harbor" style="color:#084172;text-decoration:underline;font-family:'PT Sans',Helvetica,Arial,sans-serif;font-size:13px;">Google</a><span style="font-family:'PT Sans',Helvetica,Arial,sans-serif;font-size:13px;color:#6B7170;"> &middot; </span><a href="https://www.stjcsh.org/calendar/christmas-day.ics" style="color:#084172;text-decoration:underline;font-family:'PT Sans',Helvetica,Arial,sans-serif;font-size:13px;">Apple / Outlook</a></div></td></tr>
+<tr><td style="padding:18px 32px 0;"><div style="font-family:'Cormorant Garamond',Georgia,'Times New Roman',serif;font-weight:600;font-size:22px;line-height:1.2;color:#BF0000;">Christmas Day Service, Friday, December&nbsp;25</div><div style="font-family:'PT Sans',Helvetica,Arial,sans-serif;font-weight:700;font-size:13px;letter-spacing:0.3px;color:#2C3539;margin-top:8px;">Holy Eucharist, 10&nbsp;am</div><div style="margin:14px 0 4px;text-align:center;"><span style="font-family:'PT Sans',Helvetica,Arial,sans-serif;font-size:13px;color:#6B7170;">Add to calendar: </span><a href="https://calendar.google.com/calendar/render?action=TEMPLATE&amp;text=Christmas%20Day%20Holy%20Eucharist&amp;dates=20261225T100000/20261225T110000&amp;ctz=America%2FNew_York&amp;location=St.%20John%E2%80%99s%20Church%2C%201670%20Route%2025A%2C%20Cold%20Spring%20Harbor%2C%20NY%2011724&amp;details=St.%20John%E2%80%99s%20Episcopal%20Church%2C%20Cold%20Spring%20Harbor" style="color:#BF0000;text-decoration:underline;font-family:'PT Sans',Helvetica,Arial,sans-serif;font-size:13px;">Google</a><span style="font-family:'PT Sans',Helvetica,Arial,sans-serif;font-size:13px;color:#6B7170;"> &middot; </span><a href="https://www.stjcsh.org/calendar/christmas-day.ics" style="color:#BF0000;text-decoration:underline;font-family:'PT Sans',Helvetica,Arial,sans-serif;font-size:13px;">Apple / Outlook</a></div></td></tr>
 </table>

diff --git a/advent/calendar-generator.html b/advent/calendar-generator.html
@@ -157,7 +157,7 @@ function icsText(ev, dates, s) {
 }
 
 // Newsletter look: same palette, fonts, button and divider as the builder's own sections.
-var C = { navy: "#084172", teal: "#8FB5B0", tealDeep: "#6F9994", charcoal: "#2C3539", mute: "#6B7170", hair: "#D9DFDD" };
+var C = { navy: "#BF0000", teal: "#BF0000", tealDeep: "#2C3539", charcoal: "#2C3539", mute: "#6B7170", hair: "#D9DFDD" };
 var HEAD = "font-family:'Cormorant Garamond',Georgia,'Times New Roman',serif;";
 var BODY = "font-family:'PT Sans',Helvetica,Arial,sans-serif;";
 
@@ -188,7 +188,7 @@ function eventBlock(ev, s, asOf) {
   var h = '<tr><td style="padding:18px 32px 0;">' + titleDiv(titleHtml(ev));
   h += metaDiv(dateLine(ev, dates));
   if (ev.blurb) h += '<div style="' + BODY + 'font-size:15px;line-height:1.6;color:' + C.charcoal + ';margin-top:8px;">' + noOrphan(ev.blurb) + '</div>';
-  h += '<div style="margin:14px 0 4px;">' + (ev.ticketUrl ? ticketButton(ev) : calLinks(ev, dates, s)) + '</div>';
+  h += '<div style="margin:14px 0 4px;text-align:center;">' + (ev.ticketUrl ? ticketButton(ev) : calLinks(ev, dates, s)) + '</div>';
   return h + '</td></tr>\n';
 }
 
@@ -198,7 +198,7 @@ function groupBlock(g, s, asOf) {
   var h = '<tr><td style="padding:18px 32px 0;">' + titleDiv(noOrphan(g.group));
   live.forEach(function (i) {
     h += '<div style="margin-top:10px;"><div style="' + BODY + 'font-size:15px;line-height:1.5;color:' + C.charcoal + ';">' + noOrphan(i.title + ", " + i.timeText) + '</div>' +
-         '<div style="margin-top:2px;">' + calLinks(i, remainingDates(i, asOf), s) + '</div></div>';
+         '<div style="margin-top:2px;text-align:center;">' + calLinks(i, remainingDates(i, asOf), s) + '</div></div>';
   });
   return h + '</td></tr>\n';
 }

diff --git a/advent/core.js b/advent/core.js
@@ -131,7 +131,7 @@ function icsText(ev, dates, s) {
 }
 
 // Newsletter look: same palette, fonts, button and divider as the builder's own sections.
-var C = { navy: "#084172", teal: "#8FB5B0", tealDeep: "#6F9994", charcoal: "#2C3539", mute: "#6B7170", hair: "#D9DFDD" };
+var C = { navy: "#BF0000", teal: "#BF0000", tealDeep: "#2C3539", charcoal: "#2C3539", mute: "#6B7170", hair: "#D9DFDD" };
 var HEAD = "font-family:'Cormorant Garamond',Georgia,'Times New Roman',serif;";
 var BODY = "font-family:'PT Sans',Helvetica,Arial,sans-serif;";
 
@@ -162,7 +162,7 @@ function eventBlock(ev, s, asOf) {
   var h = '<tr><td style="padding:18px 32px 0;">' + titleDiv(titleHtml(ev));
   h += metaDiv(dateLine(ev, dates));
   if (ev.blurb) h += '<div style="' + BODY + 'font-size:15px;line-height:1.6;color:' + C.charcoal + ';margin-top:8px;">' + noOrphan(ev.blurb) + '</div>';
-  h += '<div style="margin:14px 0 4px;">' + (ev.ticketUrl ? ticketButton(ev) : calLinks(ev, dates, s)) + '</div>';
+  h += '<div style="margin:14px 0 4px;text-align:center;">' + (ev.ticketUrl ? ticketButton(ev) : calLinks(ev, dates, s)) + '</div>';
   return h + '</td></tr>\n';
 }
 
@@ -172,7 +172,7 @@ function groupBlock(g, s, asOf) {
   var h = '<tr><td style="padding:18px 32px 0;">' + titleDiv(noOrphan(g.group));
   live.forEach(function (i) {
     h += '<div style="margin-top:10px;"><div style="' + BODY + 'font-size:15px;line-height:1.5;color:' + C.charcoal + ';">' + noOrphan(i.title + ", " + i.timeText) + '</div>' +
-         '<div style="margin-top:2px;">' + calLinks(i, remainingDates(i, asOf), s) + '</div></div>';
+         '<div style="margin-top:2px;text-align:center;">' + calLinks(i, remainingDates(i, asOf), s) + '</div></div>';
   });
   return h + '</td></tr>\n';
 }
